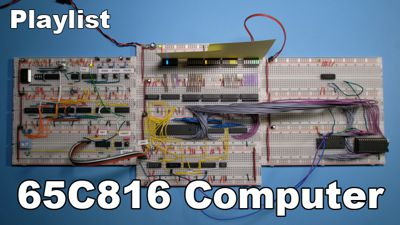
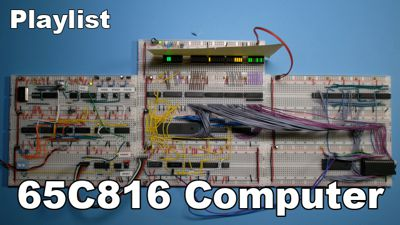
More episode 16 updates

diff --git a/thumbnails/thumbnail.py b/thumbnails/thumbnail.py
@@ -23,6 +23,7 @@ episodes = [
     'Memory map\nAddress decoding',
     'ROM',
     'RAM',
+    'Address decoding\nrework',
 ]
 
 path = './thumbnails/'
@@ -30,7 +31,7 @@ pathfmt = path + '{:d}.{}'
 
 for num, episode in enumerate(episodes, start=0):
 
-    if num < 15:
+    if num < 16:
         continue
 
     with Image.open(pathfmt.format(num, 'png')) as im:

diff --git a/README.md b/README.md
@@ -67,34 +67,35 @@ The goals of the YouTube series are to provide a good description of all the des
 
 ### KiCad components
 
-**Component Count:** 129
+**Component Count:** 142
 
 | Refs | Qty | Component | Description |
 | ----- | --- | ---- | ----------- |
-| BAR1 | 1 | Blue | BAR GRAPH 8 segment |
+| BAR1 | 1 | LED-Array-10-BGYR | BAR GRAPH 10 segment |
 | BAR2, BAR3, BAR4 | 3 | Yellow | BAR GRAPH 8 segment |
 | BAR5 | 1 | Green | BAR GRAPH 8 segment |
 | BAR6 | 1 | Red | BAR GRAPH 8 segment |
 | C1 | 1 | 220u | Polarized capacitor, small symbol |
 | C2, C16, C25, C31, C38, C40, C42 | 7 | 10u | Polarized capacitor, small symbol |
-| C3, C4, C5, C6, C7, C8, C9, C10, C17, C18, C19, C20, C21, C22, C23, C24, C26, C27, C28, C29, C30, C32, C33, C34, C35, C36, C37, C39, C41, C43 | 30 | 100n | Unpolarized capacitor, small symbol |
+| C3, C4, C5, C6, C7, C8, C9, C10, C17, C18, C19, C20, C21, C22, C23, C24, C26, C27, C28, C29, C30, C32, C33, C34, C35, C36, C37, C39, C41, C43, C44, C45, C46, C47 | 34 | 100n | Unpolarized capacitor, small symbol |
 | C11, C12, C13 | 3 | 2.2u | Polarized capacitor, small symbol |
 | C14 | 1 | 1u | Polarized capacitor, small symbol |
 | C15 | 1 | 10n | Unpolarized capacitor, small symbol |
 | D1 | 1 | 1N5817 | 20V 1A Schottky Barrier Rectifier Diode, DO-41 |
 | D2 | 1 | POWER | Light emitting diode, small symbol |
-| D3 | 1 | Reset | Light emitting diode, small symbol |
 | D4 | 1 | PWRUP | Light emitting diode, small symbol |
 | D5 | 1 | Clock | Light emitting diode, small symbol |
-| D6 | 1 | EMU | Light emitting diode, small symbol |
 | J1 | 1 | POWER | Generic connector, single row, 01x02, script generated (kicad-library-utils/schlib/autogen/connector/) |
 | J2 | 1 | Tester | Generic connector, single row, 01x08, script generated (kicad-library-utils/schlib/autogen/connector/) |
-| R1, R2, R10, R11, R12, R13, R22 | 7 | 1k | Resistor, small symbol |
+| R1, R2, R10, R12, R13, R27, R28, R29 | 8 | 1k | Resistor, small symbol |
 | R3, R5, R7 | 3 | 2.2k | Resistor, small symbol |
 | R4, R6, R8, R14, R15, R16, R17, R18, R19, R20, R21 | 11 | 10k | Resistor, small symbol |
 | R9 | 1 | 220 | Resistor, small symbol |
+| R22 | 1 | 1.5k | Resistor, small symbol |
+| R23, R24, R25, R26 | 4 | 4.7k | Resistor, small symbol |
+| R30, R31 | 2 | 2k | Resistor, small symbol |
 | RN1, RN2, RN3, RN4, RN5, RN6, RN7 | 7 | 10k | 8 resistor network, star topology, bussed resistors, small symbol |
-| RN8, RN9 | 2 | 1.5k | 8 resistor network, star topology, bussed resistors, small symbol |
+| RN8 | 1 | 1.5k | 8 resistor network, star topology, bussed resistors, small symbol |
 | RN10, RN11, RN12 | 3 | 1k | 8 resistor network, star topology, bussed resistors, small symbol |
 | RN13 | 1 | 3.3k | 8 resistor network, star topology, bussed resistors, small symbol |
 | RV1 | 1 | 500k | Potentiometer |
@@ -107,12 +108,12 @@ The goals of the YouTube series are to provide a good description of all the des
 | SW7 | 1 | SW_DIP_x08 | 8x DIP Switch, Single Pole Single Throw (SPST) switch, small symbol |
 | U1 | 1 | W65C816SxP | W65C816S 8/16-bit CMOS General Purpose Microprocessor, DIP-40 |
 | U2 | 1 | 74AC11 | Triple 3-input AND |
-| U3 | 1 | 74AC74 | Dual D Flip-flop, Set & Reset |
+| U3 | 1 | 74AHC74 | Dual D Flip-flop, Set & Reset |
 | U4 | 1 | DS1035-10 | 3-in-1 High–Speed Silicon Delay Line |
 | U5 | 1 | 74AHC00 | quad 2-input NAND gate |
-| U6 | 1 | 74AHC32 | Quad 2-input OR |
+| U6, U31 | 2 | 74AHC32 | Quad 2-input OR |
 | U7 | 1 | 74ACT245 | Octal BUS Transceivers, 3-State outputs |
-| U8 | 1 | 74AC573 | 8-bit Latch 3-state outputs |
+| U8 | 1 | 74AC563 | 8-bit Latch 3-state outputs inverting |
 | U9 | 1 | 74HC14 | Hex inverter schmitt trigger |
 | U10, U13 | 2 | 74HC112 | dual JK Flip-Flop, Set & Reset |
 | U11, U14 | 2 | 74HC74 | Dual D Flip-flop, Set & Reset |
@@ -122,10 +123,13 @@ The goals of the YouTube series are to provide a good description of all the des
 | U18 | 1 | MAX705 | Low-Cost, μP Supervisory Circuit |
 | U19 | 1 | 74HC175 | 4-bit D Flip-Flop, reset |
 | U20 | 1 | 74HC04 | Hex Inverter |
-| U21, U22, U23, U24, U25 | 5 | 74HC541 | 8-bit Buffer/Line Driver 3-state outputs |
+| U21, U22 | 2 | 74HC540 | 8-bit Buffer/Line driver Inverter, 3-state outputs |
+| U23, U24, U25 | 3 | 74HC541 | 8-bit Buffer/Line Driver 3-state outputs |
 | U26 | 1 | AT28C256-15PC | Paged Parallel EEPROM 256Kb (32K x 8), DIP-28/SOIC-28 |
-| U27 | 1 | 74HC10 | Triple 3-input NAND |
+| U27, U29 | 2 | 74HC30 | 8-input NAND |
 | U28 | 1 | LY62256PL-55LL | 32Kx8 bit Low Power CMOS Static RAM, 55/70ns, DIP-28 |
+| U30 | 1 | 74AHC00 | quad 2-input NAND gate |
+| U32 | 1 | 74AHC138 | Decoder 3 to 8 active low outputs |
 | X1 | 1 | 20MHz | Crystal Clock Oscillator, DIP14-style metal package |
 
 ### Used in previous videos
